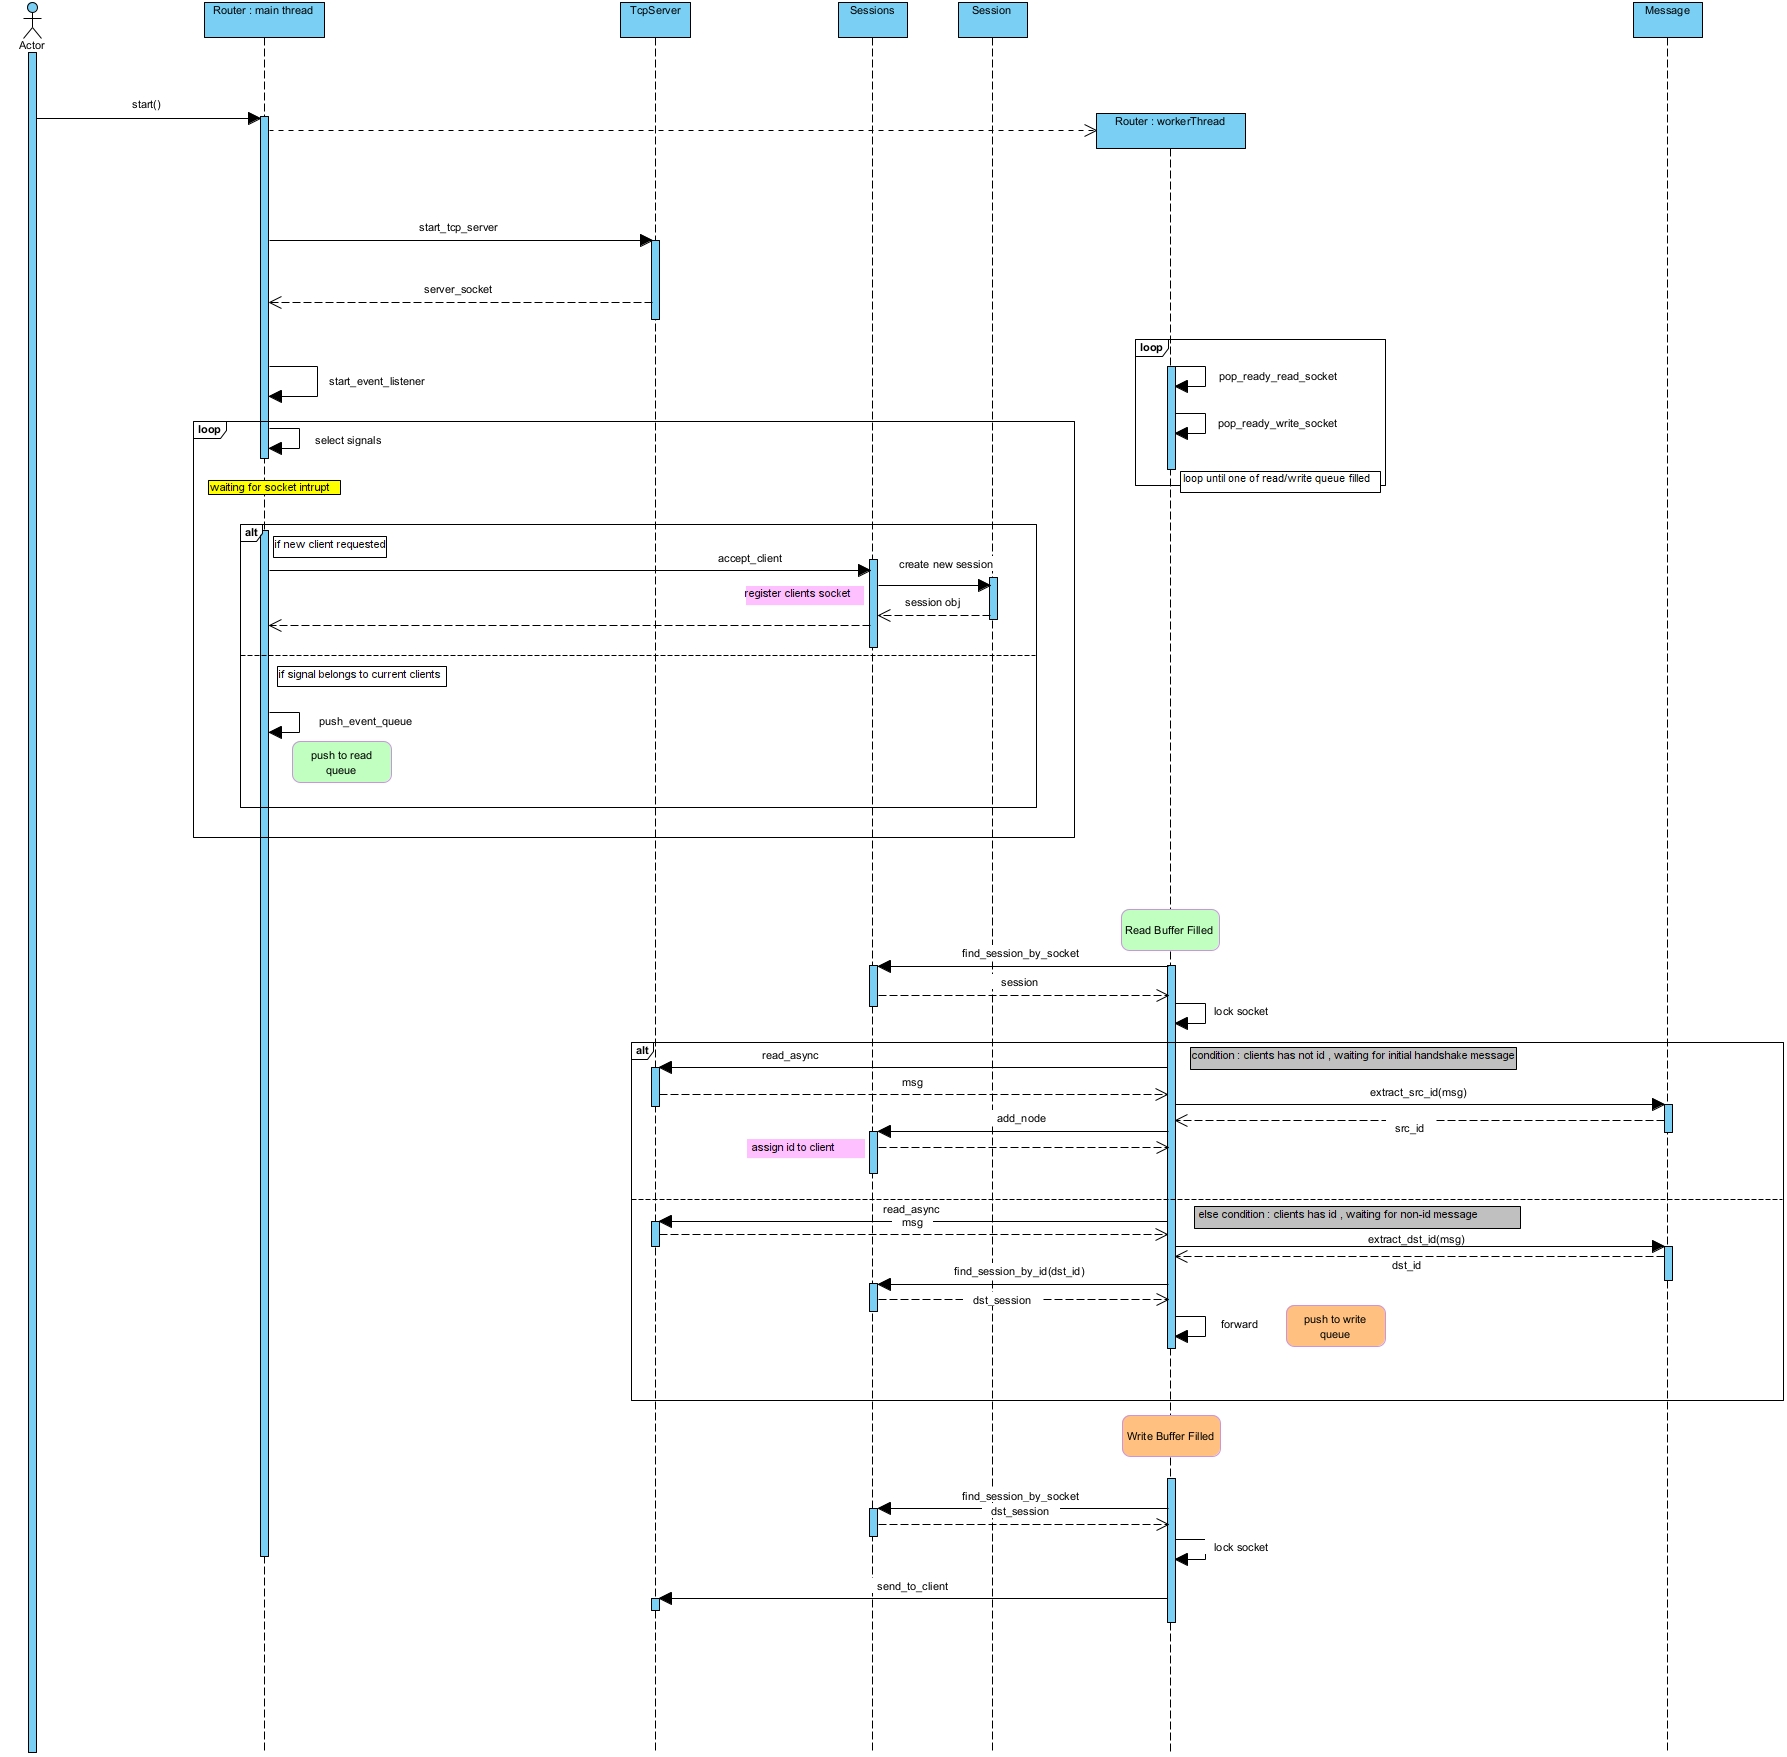
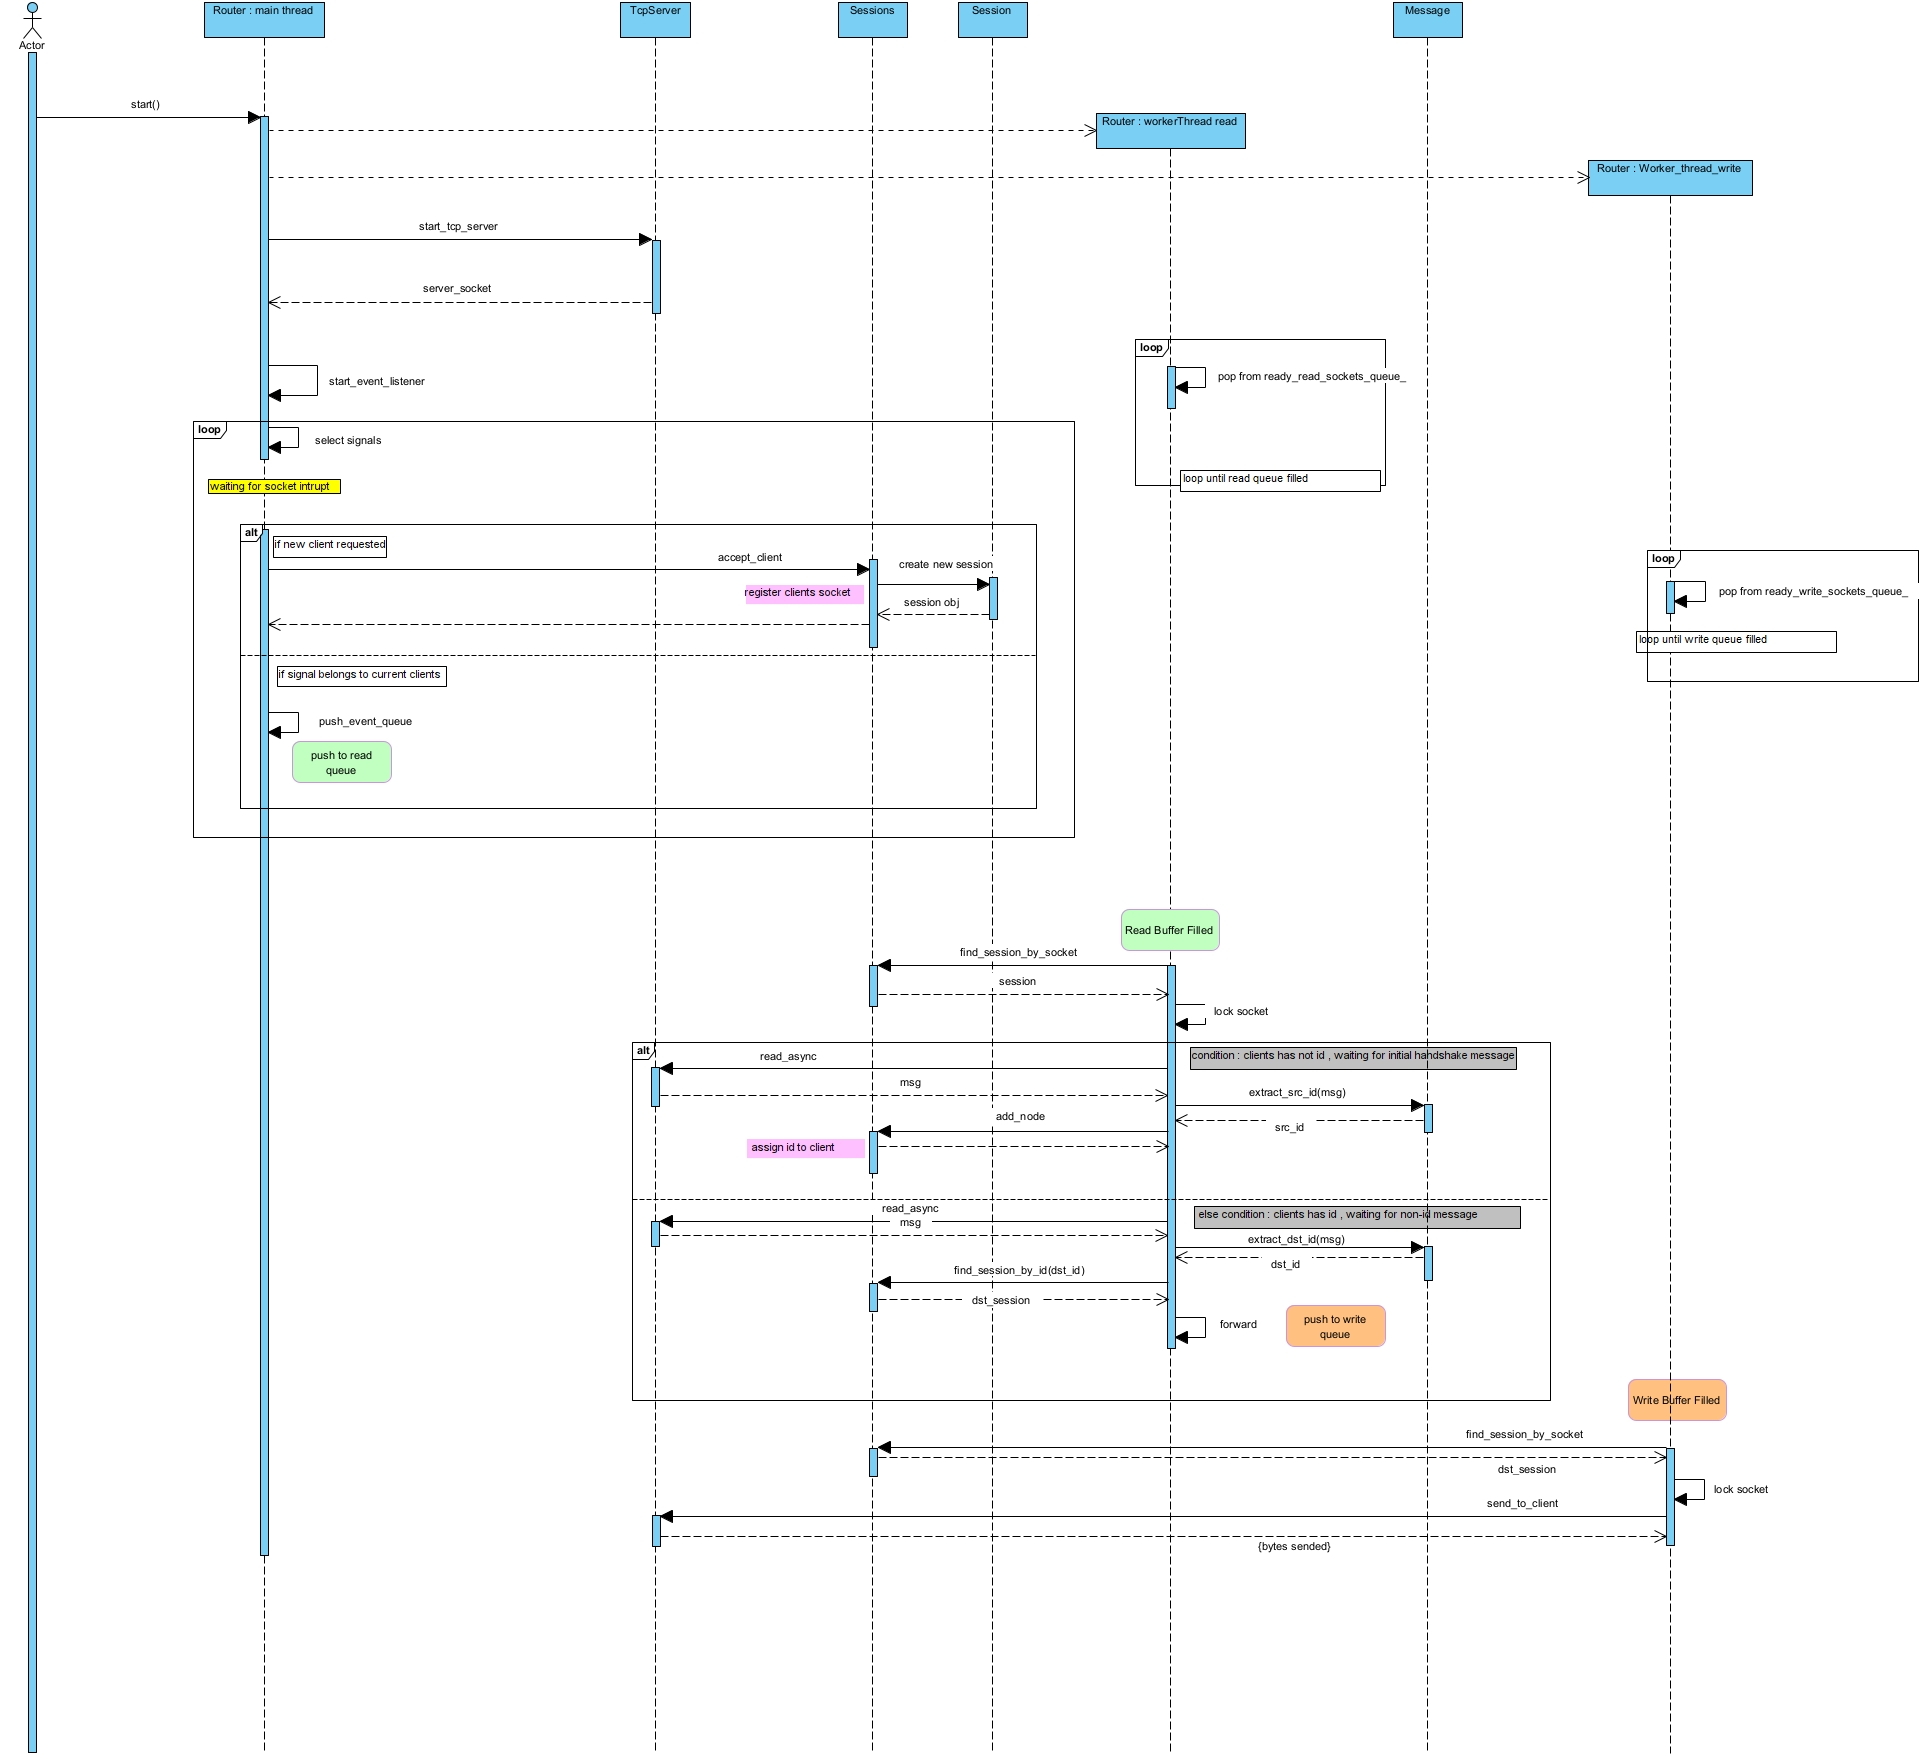
resolve bug, update diagram, seqnumber

diff --git a/router/src/router.cpp b/router/src/router.cpp
@@ -1,8 +1,11 @@
 #include "router.h"
-#include "tcpserver.h"
+
 #include <thread>
+
 #include "logger.h"
 #include "message.h"
+#include "tcpserver.h"
+
 
 #define RECV_BUFF_SIZE 32 * 3000
 
@@ -19,12 +22,11 @@ int Router::start(unsigned thread_count, unsigned port) {
   std::vector<std::thread> threads;
   threads.reserve(thread_count);
 
-  int read_thread_count = thread_count/2;
-  int write_thread_count = thread_count/2;
-  if(thread_count % 2 == 1){
+  int read_thread_count = thread_count / 2;
+  int write_thread_count = thread_count / 2;
+  if (thread_count % 2 == 1) {
     read_thread_count++;
   }
-  
 
   for (int i = 0; i < read_thread_count; ++i) {
     threads.emplace_back(worker_thread_read_handler, i);
@@ -75,8 +77,8 @@ void Router::start_event_listener(int server_socket) {
   // this the event loop, listening to new events infinitely.
   while (true) {
     // reset descriptors set, reseting is demanded by select()
-    int max_sd =
-        TcpServer::reset_fd_set(readfds, server_socket, Sessions::get_accpeted_sockets());
+    int max_sd = TcpServer::reset_fd_set(readfds, server_socket,
+                                         Sessions::get_accpeted_sockets());
 
     // Wait for activity or event, include connect new client, recv new data,
     // terminate client connections
@@ -96,27 +98,29 @@ void Router::start_event_listener(int server_socket) {
       // register accepted socket on Sessions class, session is responsible for
       // managing connections
       Sessions::accept_client(new_client_socket);
-      LOG_INFO("Accept new node request");
+      LOG_INFO("Accept new node request {}.",new_client_socket);
     }
 
     // push intruppted client sockets to the queue
     for (int i = 0; i < activity; i++) {
       int socket = readfds.fd_array[i];
+      if (socket != server_socket) {
         bool dont_push_if_repeated_event = true;
-        ready_read_sockets_queue_.push(socket,dont_push_if_repeated_event);
+        ready_read_sockets_queue_.push(socket, dont_push_if_repeated_event);
+      }
     }
   }
 }
 
 void Router::do_reads(int ready_read_socket, char *recv_buffer) {
-    // find session related to this socket
+  // find session related to this socket
   auto src_session = Sessions::find_session_by_socket(ready_read_socket);
   if (src_session == nullptr) {
     // it may be removed since its, connection terminated.
-    LOG_ERROR("The socket doesnt exist and alive yet.");
+    LOG_ERROR("The socket doesnt exist and alive yet.1");
     return;
   } else {
-    int session_id = src_session->get_id();
+    
     auto socket_mutex = src_session->get_mutex();
 
     // lock with socket mutex, its serialize each socket reads and writes
@@ -125,12 +129,13 @@ void Router::do_reads(int ready_read_socket, char *recv_buffer) {
     auto src_session = Sessions::find_session_by_socket(ready_read_socket);
     if (src_session == nullptr) {
       // it may be removed since its, connection terminated.
-      LOG_ERROR("The socket doesnt exist and alive yet.");
+      LOG_ERROR("The socket doesnt exist and alive yet.2");
       return;
     }
 
     int bytes_read = 0;
     do {
+      int session_id = src_session->get_id();
       if (session_id == NONE) {
         bytes_read = handle_handshake(ready_read_socket, recv_buffer);
       } else {
@@ -183,7 +188,7 @@ int Router::process_message(int ready_read_socket, char *recv_buffer) {
     LOG_ERROR(
         "read_async() return error. connection crashed or terminated by "
         "client");
-  } else {
+  } else if (bytes_read != 0) {
     // message len is insuffcient. this bytes will drop unfortunately.
     LOG_ERROR(
         "Received MSG length is insufficient for MSG processing, {} bytes will "
@@ -203,7 +208,7 @@ int Router::handle_handshake(int ready_read_socket, char *recv_buffer) {
     // class
 
     // add null terminating.
-    recv_buffer[DATA_MESSAGE_SIZE] = 0;
+    recv_buffer[ID_MESSAGE_SIZE] = 0;
 
     int src_id = Message::extract_src_id(recv_buffer, bytes_read);
     Sessions::add_node(ready_read_socket, src_id);
@@ -213,7 +218,7 @@ int Router::handle_handshake(int ready_read_socket, char *recv_buffer) {
     LOG_ERROR(
         "read_async() return error. connection crashed or terminated by "
         "client");
-  } else {
+  } else if( bytes_read != 0) {
     // message len is insuffcient. this bytes will drop unfortunately.
     LOG_ERROR(
         "Received MSG length is insufficient for node handshaking, {} bytes "

diff --git a/router/src/sessions.cpp b/router/src/sessions.cpp
@@ -39,9 +39,9 @@ void Sessions::add_node(int client_socket,int node_id){
 	}
 
 
-	auto session = sessions_by_socket_[client_socket];
+	auto& session = sessions_by_socket_[client_socket];
 	session->set_id(node_id);
-	sessions_by_id_[node_id] = sessions_by_socket_[client_socket];
+	sessions_by_id_[node_id] = session;
 }
 std::shared_ptr<Session> Sessions::find_session_by_socket(int client_socket) {
 	std::shared_lock<std::shared_mutex> lock(*sessions_mutex_);
